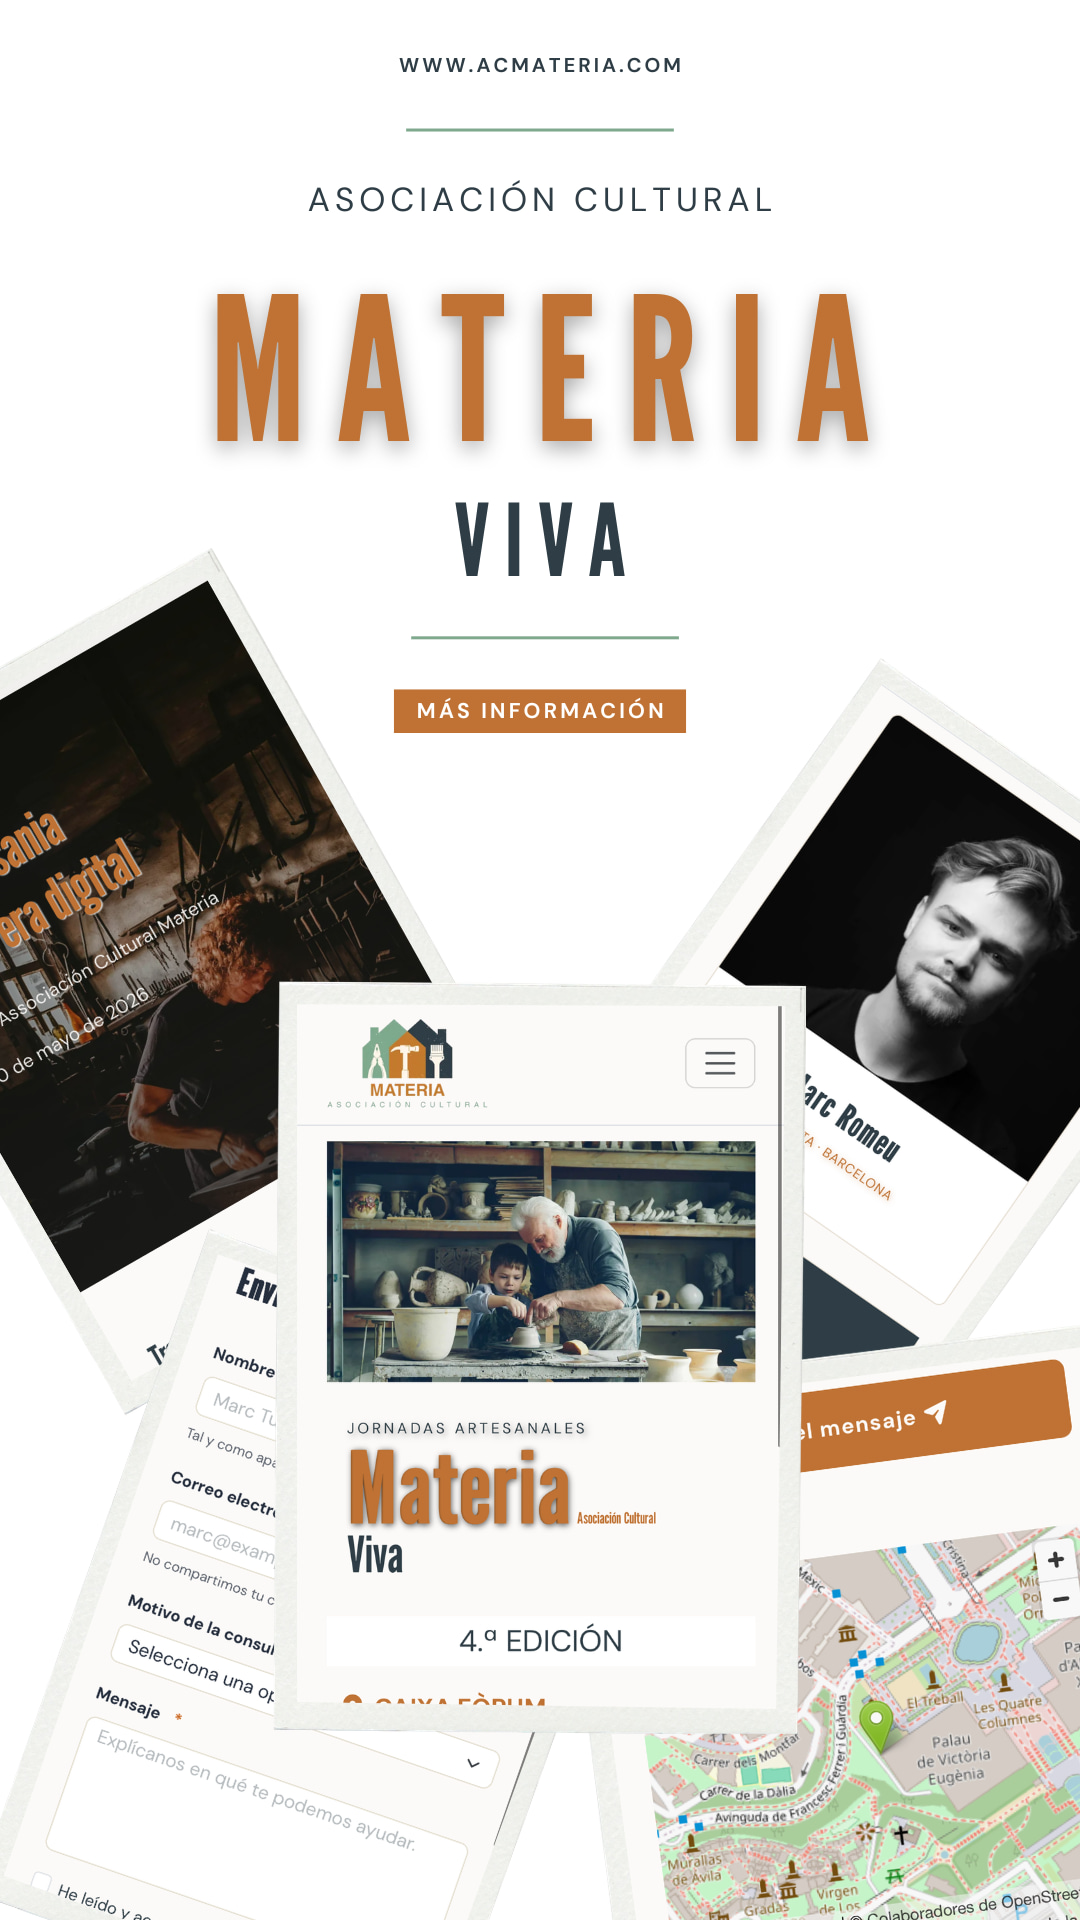
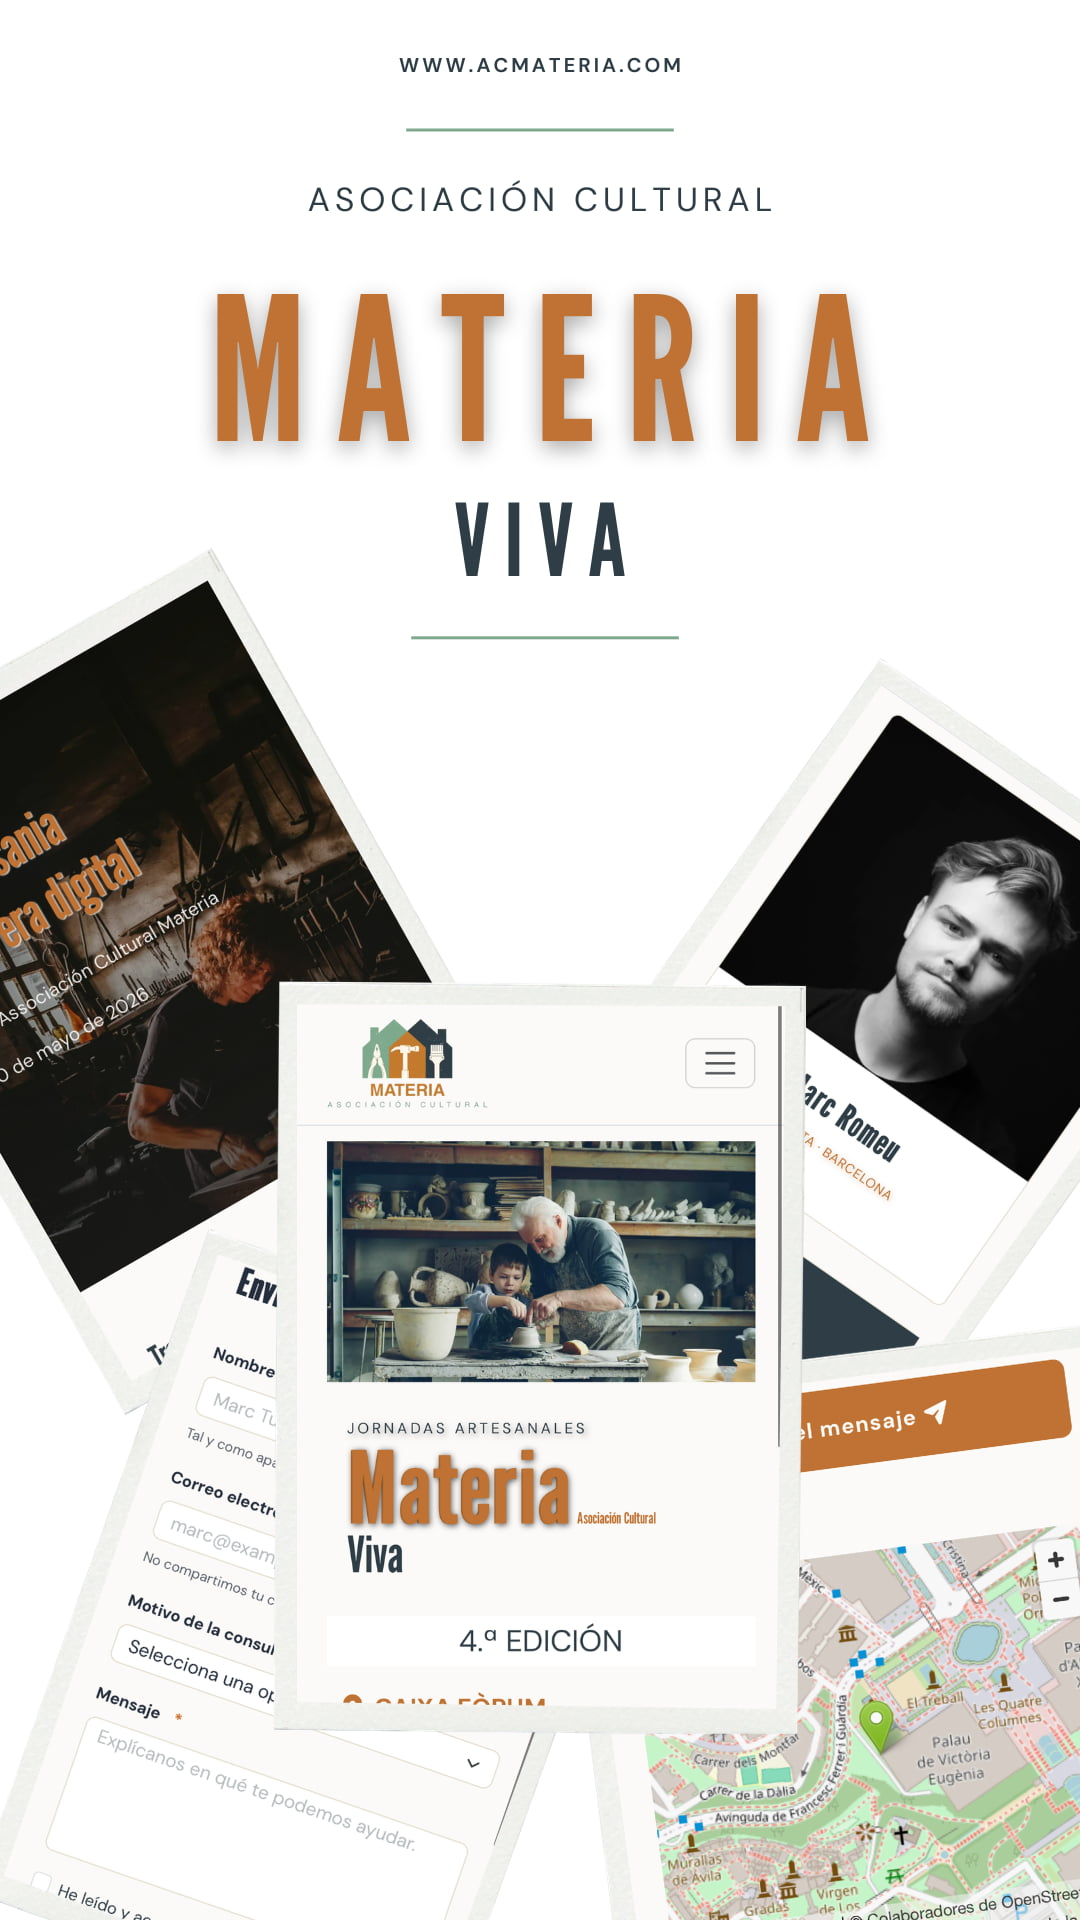
Home page poster

Changed region(s): [[0.3667, 0.3438, 0.6417, 0.4062]]

diff --git a/src/views/home/home.html b/src/views/home/home.html
@@ -1,36 +1,46 @@
-<section class="relative overflow-hidden" aria-labelledby="hero-title">
+<section class="relative overflow-hidden">
   <picture>
-    <!-- Mobile (3:4 -> 0.75) -->
+    <!-- Desktop (>= 768px) -->
     <source
-      media="(max-width: 768px)"
-      srcset="
-        ./assets/images/home/hero-mobile.jpg?width=900&as=webp 900w,
-        ./assets/images/home/hero-mobile.jpg?width=1200&as=webp 1200w
-      "
-      sizes="100vw"
-    />
-    <!-- Desktop (3:2 -> 1.5) -->
-    <img
-      class="h-vh w-full object-cover"
-      src="./assets/images/home/hero.jpg?width=1600&as=webp"
+      media="(min-width: 768px)"
       srcset="
         ./assets/images/home/hero.jpg?width=1200&as=webp 1200w,
         ./assets/images/home/hero.jpg?width=1600&as=webp 1600w,
         ./assets/images/home/hero.jpg?width=1920&as=webp 1920w
       "
+      sizes="100vw"
+    />
+
+    <!-- Mobile default -->
+    <img
+      class="h-vh w-full object-cover"
+      src="./assets/images/home/hero-mobile.jpg?width=900&as=webp"
+      srcset="
+        ./assets/images/home/hero-mobile.jpg?width=900&as=webp 900w,
+        ./assets/images/home/hero-mobile.jpg?width=1200&as=webp 1200w
+      "
       alt=""
-      width="1920"
-      height="1080"
+      width="900"
+      height="1200"
       decoding="async"
       fetchpriority="high"
     />
   </picture>
 
-  <a href=""
-    class="hero-btn hero-btn--primary absolute left-[50%] top-[37%] -translate-x-1/2 -translate-y-1/2
-          md:left-[27.5%] md:top-[87%]"
+  <a
+    href=""
+    class="
+      hero-btn hero-btn--primary absolute
+      left-[50%] top-[37%] md:left-[27.5%] md:top-[87%] -translate-x-1/2 -translate-y-1/2
+      scale-[0.45]
+      sm:scale-[0.80]
+      md:scale-75
+      lg:scale-100
+      xl:scale-125
+      2xl:scale-150
+    "
   >
     MÁS INFORMACIÓN
-    <i class="fa-solid fa-arrow-right" aria-hidden="true"></i>
+    <i class="fa-solid fa-arrow-right text-[0.8em]"></i>
   </a>
 </section>

diff --git a/src/assets/styles/components/home/_hero-home.scss b/src/assets/styles/components/home/_hero-home.scss
@@ -1,5 +1,5 @@
 .hero-btn {
-  @apply z-10 px-8 py-4 text-base font-normal leading-[1.5] rounded-lg shadow-[inset_0_1px_0_#ffffff26,_0_1px_1px_#00000013];
+  @apply whitespace-nowrap origin-center z-10 px-8 py-4 text-base font-normal leading-[1.5] rounded-lg shadow-[inset_0_1px_0_#ffffff26,_0_1px_1px_#00000013];
 }
 
 .hero-btn--primary {
